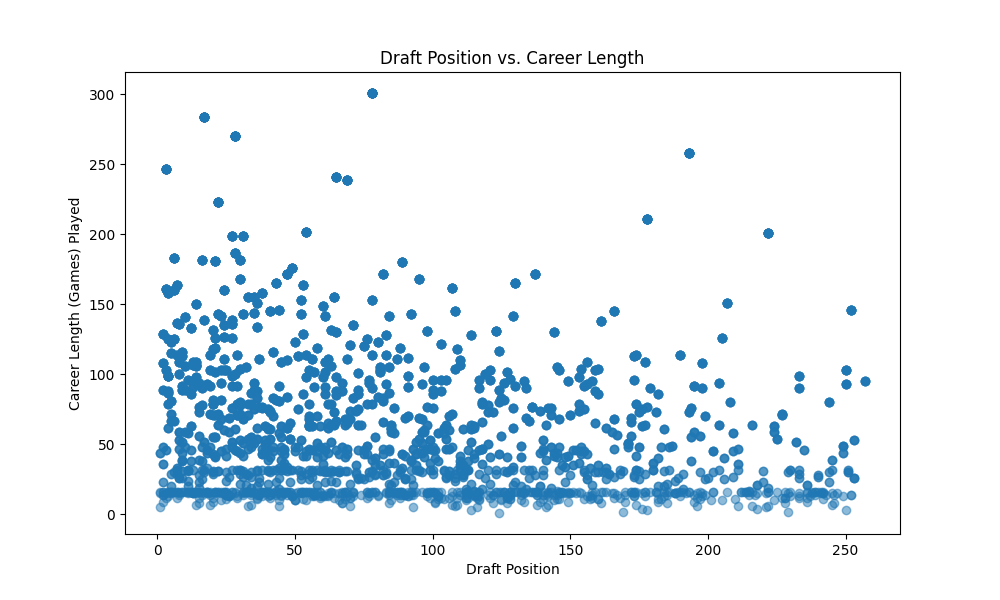
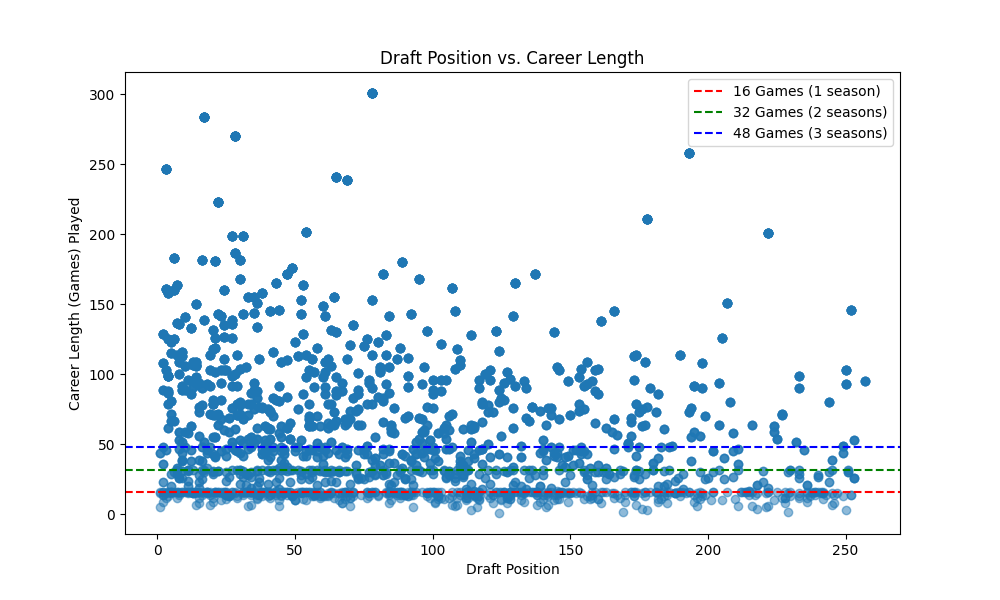
added horizointal lines to the scatterplot

Changed region(s): [[0.713, 0.12, 0.899, 0.24]]

diff --git a/analysis.py b/analysis.py
@@ -26,10 +26,19 @@ def scatter_plot(data):
     draft_car = data['Pick'].corr(data['Games_y'])
     print(
         f'Correlation between draft position & career length: {draft_car:.2f}')
+
     plt.figure(figsize=(10, 6))
+
     plt.scatter(data['Pick'], data['Games_y'], alpha=0.5)
+
+    # Adding horizontal lines at y = 16, y = 32, y = 48 (1-3 seasons)
+    plt.axhline(y=16, color='r', linestyle='--', label='16 Games (1 season)')
+    plt.axhline(y=32, color='g', linestyle='--', label='32 Games (2 seasons)')
+    plt.axhline(y=48, color='b', linestyle='--', label='48 Games (3 seasons)')
+
     plt.title('Draft Position vs. Career Length')
     plt.xlabel('Draft Position')
+    plt.legend()
     plt.ylabel('Career Length (Games) Played')
     plt.savefig(
         "pngs//Draft Position vs. Career Longevity and Performance.png")
@@ -50,6 +59,7 @@ def scatter_plot_av(data):
         f'Correlation between draft position and AV: {draft_av:.2f}')
     plt.figure(figsize=(10, 6))
     plt.scatter(data['Pick'], data['AV'], alpha=0.5)
+
     plt.title('Draft Position vs. AV')
     plt.xlabel('Draft Position')
     plt.ylabel('AV')
